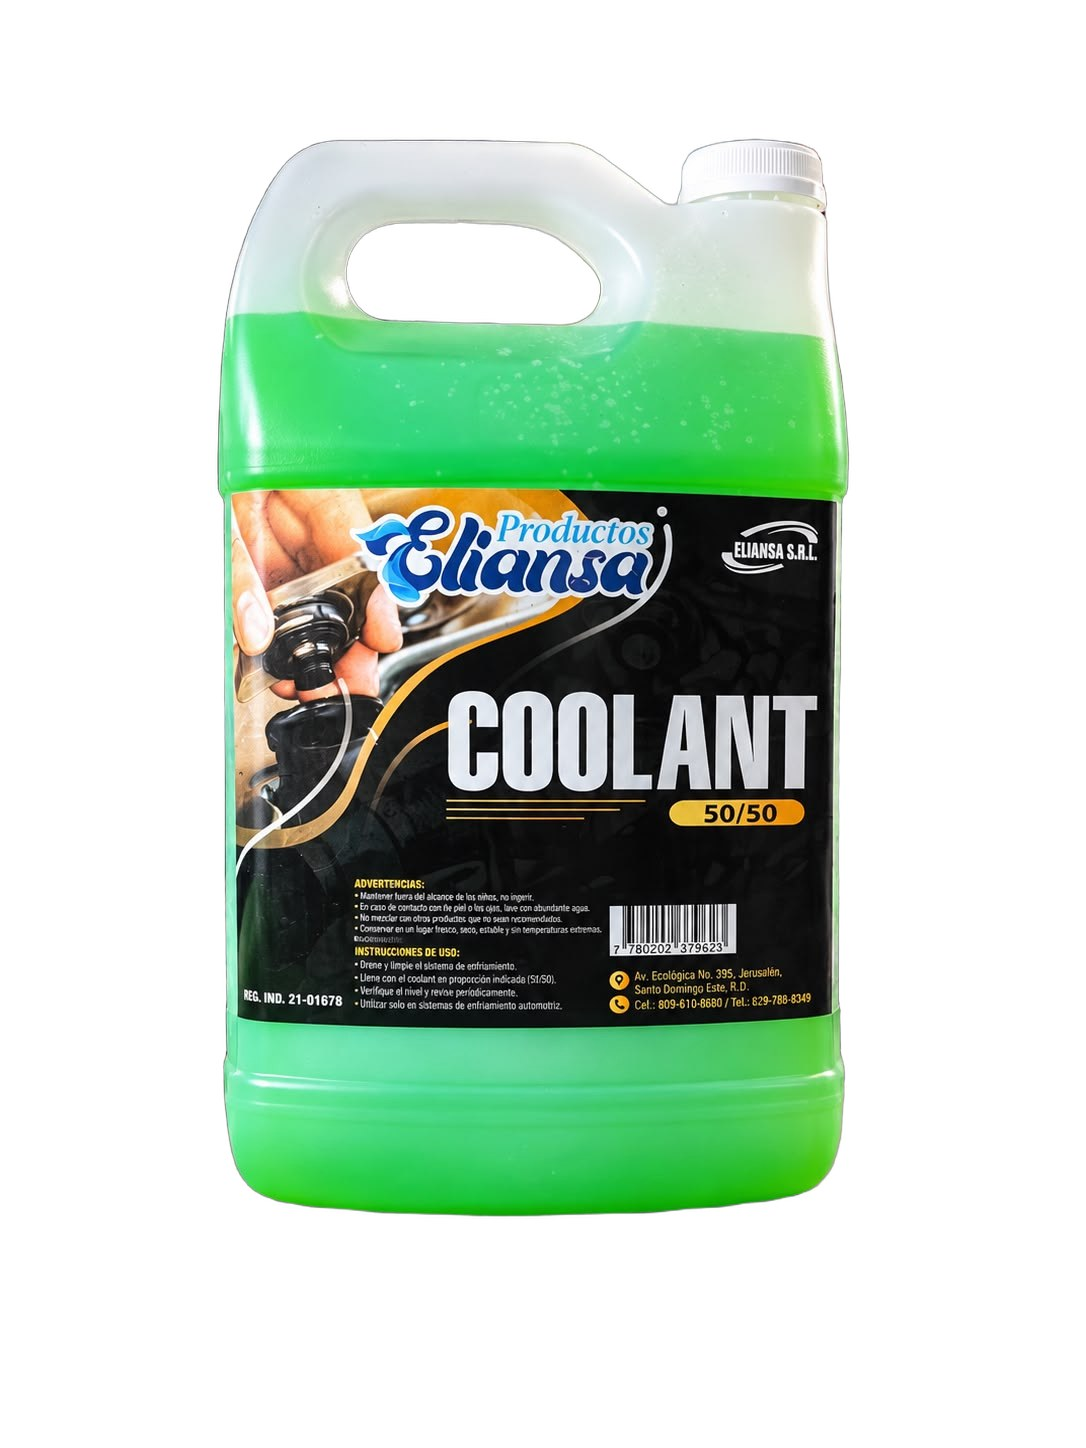
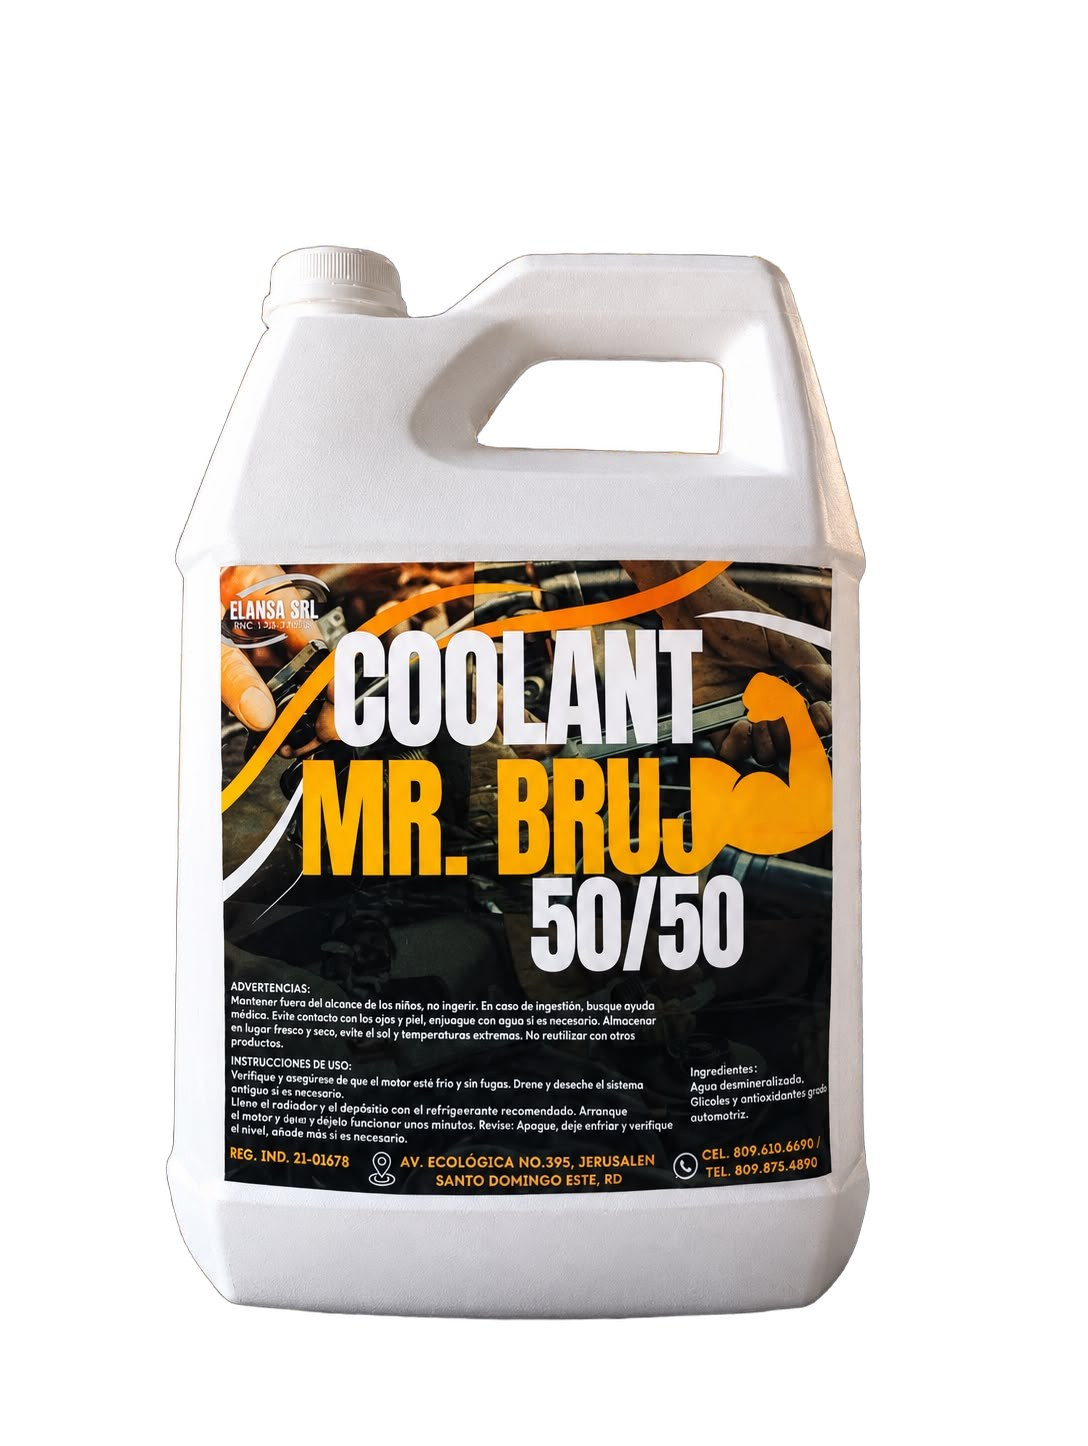
Quita precios por mayor y agrega foto nueva Mr Brujo

diff --git a/app.js b/app.js
@@ -4,26 +4,26 @@ function waNumLink(num,msg){return 'https://wa.me/'+num+'?text='+encodeURICompon
 function waChoose(msg){pendingWa=msg||'Hola Eliansa';document.getElementById('waOpt1').href=waNumLink(WA,pendingWa);document.getElementById('waOpt2').href=waNumLink(WA2,pendingWa);document.getElementById('waModal').classList.add('open');}
 function closeWa(){document.getElementById('waModal').classList.remove('open');}
 const PRODUCTS=[
-{id:1,cat:'hogar',sku:'Hogar 01',img:'img/suavizante.jpg',name:'Suavizante de Ropa',spec:'Galón · Ropa suave',desc:'Ropa suave y con rico aroma. El favorito de la casa.',price:190,mayor:165,tag:'EL FAVORITO',hot:1},
-{id:2,cat:'hogar',sku:'Hogar 02',img:'img/air-freshener.png',name:'Air Freshener Cherry',spec:'Spray · Aroma cherry',desc:'Aroma duradero, elimina olores. Hogar fresco.',price:null,mayor:null,tag:'NUEVO',hot:0},
-{id:3,cat:'hogar',sku:'Hogar 03',img:'img/jabon-cuaba.png',name:'Jabón de Cuaba',spec:'Galón · Limón',desc:'El clásico jabón de cuaba para fregar y lavar.',price:190,mayor:165,tag:'',hot:0},
-{id:4,cat:'cocina',sku:'Cocina 01',img:'img/lavaplatos.png',name:'Jabón Lavaplatos 500ml',spec:'500ml · Limón fresco',desc:'Poder desengrasante. Corta la grasa al instante.',price:null,mayor:null,tag:'MUY PEDIDO',hot:1},
-{id:5,cat:'cocina',sku:'Cocina 02',img:'img/lavaplatos-galon.png',name:'Jabón Lavaplatos Galón',spec:'Galón · Limpieza efectiva',desc:'Presentación grande para la cocina. Rinde más.',price:null,mayor:null,tag:'',hot:0},
-{id:6,cat:'cocina',sku:'Cocina 03',img:'img/desgrasante-spray.jpg',name:'Desgrasante Multiuso',spec:'Spray · Cocina y superficies',desc:'Elimina grasa difícil. Limpieza profunda.',price:165,mayor:135,tag:'NUEVO',hot:0},
-{id:7,cat:'bano',sku:'Baño 01',img:'img/cloro.png',name:'Cloro 1 Litro',spec:'1L · Desinfecta',desc:'Para baños, pisos y ropa blanca. No puede faltar.',price:90,mayor:85,tag:'',hot:0},
-{id:8,cat:'bano',sku:'Baño 02',img:'img/cloro-galon.jpg',name:'Cloro 1 Galón',spec:'1 GL · Limpieza profunda',desc:'Cloro en galón para baños, pisos y ropa blanca.',price:null,mayor:null,tag:'',hot:0},
-{id:20,cat:'bano',sku:'Baño 03',img:'img/legia.png',name:'Legía',spec:'Hipoclorito 5.25%',desc:'Blanquea y desinfecta ropa y superficies.',price:110,mayor:null,tag:'NUEVO',hot:0},
-{id:9,cat:'desinf',sku:'Desinf 01',img:'img/desinfectante-lavanda.png',name:'Desinfectante Lavanda',spec:'Aroma lavanda',desc:'Limpia, desinfecta y deja la casa oliendo rico por horas.',price:190,mayor:165,tag:'EL FAVORITO',hot:1},
-{id:10,cat:'desinf',sku:'Desinf 02',img:'img/desinfectante-floral.png',name:'Desinfectante Floral',spec:'Galón · Bouquet floral',desc:'Fórmula de larga duración con aroma floral.',price:190,mayor:165,tag:'',hot:0},
-{id:11,cat:'pisos',sku:'Pisos 01',img:'img/limpia-ceramicas.png',name:'Limpia Cerámicas',spec:'Galón · Alto rendimiento',desc:'Limpia, desengrasa y da brillo a pisos cerámicos.',price:null,mayor:255,tag:'NUEVO',hot:0},
-{id:12,cat:'auto',sku:'Auto 01',img:'img/shampoo-autos.png',name:'Shampoo para Autos',spec:'Galón · Espuma activa',desc:'Lava y cuida la pintura de tu vehículo.',price:null,mayor:140,tag:'NUEVO',hot:0},
-{id:13,cat:'auto',sku:'Auto 02',img:'img/limpia-parabrisas.png',name:'Limpia Parabrisas',spec:'Visibilidad clara',desc:'Remueve suciedad sin dejar residuos.',price:null,mayor:null,tag:'',hot:0},
-{id:14,cat:'auto',sku:'Auto 03',img:'img/agua-bateria.png',name:'Agua para Batería',spec:'Galón · Mantenimiento',desc:'Para el cuidado de la batería de tu vehículo.',price:null,mayor:null,tag:'',hot:0},
-{id:15,cat:'auto',sku:'Auto 04',img:'img/almorol.png',name:'Almorol Blanco',spec:'Spray · Protector premium',desc:'Acabado brillante con protección UV para gomas e interiores.',price:null,mayor:null,tag:'NUEVO',hot:0},
-{id:16,cat:'auto',sku:'Auto 05',img:'img/coolant-5050.jpg',name:'Coolant Mr. Brujo 50/50',spec:'Galón · Automotriz',desc:'Enfriamiento superior. Evita corrosión y sobrecalentamiento.',price:600,mayor:425,tag:'NUEVO',hot:0},
-{id:17,cat:'auto',sku:'Auto 06',img:'img/coolant-3030.jpg',name:'Coolant 30/30',spec:'Galón · Automotriz',desc:'Refrigerante para el radiador. Protección diaria.',price:400,mayor:350,tag:'NUEVO',hot:0},
-{id:18,cat:'auto',sku:'Auto 07',img:'img/coolant-regular.jpg',name:'Coolant Regular',spec:'Galón · Automotriz',desc:'Refrigerante regular para tu vehículo.',price:200,mayor:90,tag:'',hot:0},
-{id:19,cat:'hogar',sku:'Hogar 04',img:'img/jabon-cuaba-medio.jpg',name:'Jabón de Cuaba ½ Galón',spec:'½ GL · Limón',desc:'El clásico jabón de cuaba en tamaño medio galón.',price:null,mayor:null,tag:'NUEVO',hot:0},
+{id:1,cat:'hogar',sku:'Hogar 01',img:'img/suavizante.jpg',name:'Suavizante de Ropa',spec:'Galón · Ropa suave',desc:'Ropa suave y con rico aroma. El favorito de la casa.',price:190,tag:'EL FAVORITO',hot:1},
+{id:2,cat:'hogar',sku:'Hogar 02',img:'img/air-freshener.png',name:'Air Freshener Cherry',spec:'Spray · Aroma cherry',desc:'Aroma duradero, elimina olores. Hogar fresco.',price:null,tag:'NUEVO',hot:0},
+{id:3,cat:'hogar',sku:'Hogar 03',img:'img/jabon-cuaba.png',name:'Jabón de Cuaba',spec:'Galón · Limón',desc:'El clásico jabón de cuaba para fregar y lavar.',price:190,tag:'',hot:0},
+{id:4,cat:'cocina',sku:'Cocina 01',img:'img/lavaplatos.png',name:'Jabón Lavaplatos 500ml',spec:'500ml · Limón fresco',desc:'Poder desengrasante. Corta la grasa al instante.',price:null,tag:'MUY PEDIDO',hot:1},
+{id:5,cat:'cocina',sku:'Cocina 02',img:'img/lavaplatos-galon.png',name:'Jabón Lavaplatos Galón',spec:'Galón · Limpieza efectiva',desc:'Presentación grande para la cocina. Rinde más.',price:null,tag:'',hot:0},
+{id:6,cat:'cocina',sku:'Cocina 03',img:'img/desgrasante-spray.jpg',name:'Desgrasante Multiuso',spec:'Spray · Cocina y superficies',desc:'Elimina grasa difícil. Limpieza profunda.',price:165,tag:'NUEVO',hot:0},
+{id:7,cat:'bano',sku:'Baño 01',img:'img/cloro.png',name:'Cloro 1 Litro',spec:'1L · Desinfecta',desc:'Para baños, pisos y ropa blanca. No puede faltar.',price:90,tag:'',hot:0},
+{id:8,cat:'bano',sku:'Baño 02',img:'img/cloro-galon.jpg',name:'Cloro 1 Galón',spec:'1 GL · Limpieza profunda',desc:'Cloro en galón para baños, pisos y ropa blanca.',price:null,tag:'',hot:0},
+{id:20,cat:'bano',sku:'Baño 03',img:'img/legia.png',name:'Legía',spec:'Hipoclorito 5.25%',desc:'Blanquea y desinfecta ropa y superficies.',price:110,tag:'NUEVO',hot:0},
+{id:9,cat:'desinf',sku:'Desinf 01',img:'img/desinfectante-lavanda.png',name:'Desinfectante Lavanda',spec:'Aroma lavanda',desc:'Limpia, desinfecta y deja la casa oliendo rico por horas.',price:190,tag:'EL FAVORITO',hot:1},
+{id:10,cat:'desinf',sku:'Desinf 02',img:'img/desinfectante-floral.png',name:'Desinfectante Floral',spec:'Galón · Bouquet floral',desc:'Fórmula de larga duración con aroma floral.',price:190,tag:'',hot:0},
+{id:11,cat:'pisos',sku:'Pisos 01',img:'img/limpia-ceramicas.png',name:'Limpia Cerámicas',spec:'Galón · Alto rendimiento',desc:'Limpia, desengrasa y da brillo a pisos cerámicos.',price:null,tag:'NUEVO',hot:0},
+{id:12,cat:'auto',sku:'Auto 01',img:'img/shampoo-autos.png',name:'Shampoo para Autos',spec:'Galón · Espuma activa',desc:'Lava y cuida la pintura de tu vehículo.',price:null,tag:'NUEVO',hot:0},
+{id:13,cat:'auto',sku:'Auto 02',img:'img/limpia-parabrisas.png',name:'Limpia Parabrisas',spec:'Visibilidad clara',desc:'Remueve suciedad sin dejar residuos.',price:null,tag:'',hot:0},
+{id:14,cat:'auto',sku:'Auto 03',img:'img/agua-bateria.png',name:'Agua para Batería',spec:'Galón · Mantenimiento',desc:'Para el cuidado de la batería de tu vehículo.',price:null,tag:'',hot:0},
+{id:15,cat:'auto',sku:'Auto 04',img:'img/almorol.png',name:'Almorol Blanco',spec:'Spray · Protector premium',desc:'Acabado brillante con protección UV para gomas e interiores.',price:null,tag:'NUEVO',hot:0},
+{id:16,cat:'auto',sku:'Auto 05',img:'img/coolant-5050.jpg',name:'Coolant Mr. Brujo 50/50',spec:'Galón · Automotriz',desc:'Enfriamiento superior. Evita corrosión y sobrecalentamiento.',price:600,tag:'NUEVO',hot:0},
+{id:17,cat:'auto',sku:'Auto 06',img:'img/coolant-3030.jpg',name:'Coolant 30/30',spec:'Galón · Automotriz',desc:'Refrigerante para el radiador. Protección diaria.',price:400,tag:'NUEVO',hot:0},
+{id:18,cat:'auto',sku:'Auto 07',img:'img/coolant-regular.jpg',name:'Coolant Regular',spec:'Galón · Automotriz',desc:'Refrigerante regular para tu vehículo.',price:200,tag:'',hot:0},
+{id:19,cat:'hogar',sku:'Hogar 04',img:'img/jabon-cuaba-medio.jpg',name:'Jabón de Cuaba ½ Galón',spec:'½ GL · Limón',desc:'El clásico jabón de cuaba en tamaño medio galón.',price:null,tag:'NUEVO',hot:0},
 ];
 const CATS={hogar:'Hogar',cocina:'Cocina',bano:'Baños',desinf:'Desinfectantes',pisos:'Pisos',auto:'Automotriz'};
 let cart=[];try{cart=JSON.parse(localStorage.getItem('nc-cart')||'[]');}catch(e){cart=[];}
@@ -47,11 +47,8 @@ function checkout(){if(!cart.length){toast('Agrega productos primero');return;}c
 function filterCat(c){curFilter=c;document.querySelectorAll('#filters .f').forEach(b=>b.classList.toggle('active',b.dataset.f===c));render();if(c!=='todos'){const el=document.getElementById('catalogo');if(el)el.scrollIntoView({behavior:'smooth'});}}
 function onSearch(v){curSearch=v.toLowerCase();render();}
 function onSort(v){curSort=v;render();}
-function mayorLine(p){return p.mayor!=null?`<span class="bulk">Por mayor: ${fmt(p.mayor)} · 6+ uds</span>`:'';}
-function priceBlock(p){if(p.price!=null)return `<div class="price"><strong>${fmt(p.price)}</strong></div>${mayorLine(p)}<div class="card-actions"><button class="btn-primary" onclick="addToCart(${p.id})">Agregar</button><button class="ficha" onclick="openFicha(${p.id})">Ver</button></div>`;
-if(p.mayor!=null)return `<div class="price"><strong>Consultar detalle</strong></div>${mayorLine(p)}<div class="card-actions"><button class="btn-primary" onclick="askPrice(${p.id})">Consultar</button><button class="ficha" onclick="openFicha(${p.id})">Ver</button></div>`;
+function priceBlock(p){if(p.price!=null)return `<div class="price"><strong>${fmt(p.price)}</strong></div><div class="card-actions"><button class="btn-primary" onclick="addToCart(${p.id})">Agregar</button><button class="ficha" onclick="openFicha(${p.id})">Ver</button></div>`;
 return `<div class="price"><strong>Consultar precio</strong></div><div class="card-actions"><button class="btn-primary" onclick="askPrice(${p.id})">Consultar</button><button class="ficha" onclick="openFicha(${p.id})">Ver</button></div>`;}
-function mayorQuote(name){waChoose('Hola Eliansa, quiero comprar al por mayor: '+name+'. Cantidad: ');}
 function render(){const g=document.getElementById('grid');if(!g)return;
 let list=PRODUCTS.filter(p=>(curFilter==='todos'||p.cat===curFilter)&&((p.name+' '+p.sku+' '+(p.desc||'')).toLowerCase().includes(curSearch)));
 if(curSort==='asc')list=[...list].sort((a,b)=>((a.price==null?1e12:a.price))-((b.price==null?1e12:b.price)));if(curSort==='desc')list=[...list].sort((a,b)=>((b.price==null?-1:b.price))-((a.price==null?-1:a.price)));
@@ -60,7 +57,7 @@ g.innerHTML=list.map(p=>`<div class="card"><div class="card-img"><img loading="l
 <div class="card-body"><span class="sku">${p.sku} · ${CATS[p.cat]||''}</span><h3>${p.name}</h3><span class="spec">${p.spec}</span><p class="desc">${p.desc}</p>
 ${priceBlock(p)}</div></div>`).join('');}
 function openFicha(id){const p=PRODUCTS.find(x=>x.id===id);const m=document.getElementById('modal');document.getElementById('modalCard').innerHTML=`<img src="${p.img}" alt="${p.name}" onerror="this.remove()" style="width:100%;height:240px;object-fit:contain;background:#F4F7FA;border-radius:12px;margin-bottom:12px"><span class="sku">${p.sku} · ${CATS[p.cat]||''}</span><h3>${p.name}</h3><p style="color:var(--muted);font-size:.9rem">${p.desc}</p>
-<table><tr><th>Detalle</th><th>Info</th></tr><tr><td><strong>Presentación</strong></td><td>${p.spec}</td></tr><tr><td><strong>Precio detalle</strong></td><td>${p.price!=null?fmt(p.price):'A consultar por WhatsApp'}</td></tr>${p.mayor!=null?`<tr><td><strong>Precio por mayor</strong></td><td>${fmt(p.mayor)} · desde 6 uds</td></tr>`:''}<tr><td><strong>Entrega</strong></td><td>Envíos disponibles</td></tr></table>
+<table><tr><th>Detalle</th><th>Info</th></tr><tr><td><strong>Presentación</strong></td><td>${p.spec}</td></tr><tr><td><strong>Precio</strong></td><td>${p.price!=null?fmt(p.price):'A consultar por WhatsApp'}</td></tr><tr><td><strong>Entrega</strong></td><td>Envíos disponibles</td></tr></table>
 <div style="display:flex;gap:10px;margin-top:12px">${p.price!=null?`<button class="btn-primary" style="flex:1;justify-content:center" onclick="addToCart(${p.id});closeModal()">Agregar al pedido</button>`:`<button class="btn-primary" style="flex:1;justify-content:center" onclick="askPrice(${p.id})">Consultar por WhatsApp</button>`}<button class="ficha" onclick="closeModal()">Cerrar</button></div>`;
 m.classList.add('open');}
 function closeModal(){document.getElementById('modal').classList.remove('open');}

diff --git a/index.html b/index.html
@@ -27,7 +27,6 @@
 <a href="#inicio" class="active">Inicio</a>
 <a href="#catalogo">Productos</a>
 <a href="#combos">Combos</a>
-<a href="#mayorista">Por mayor</a>
 <a href="#opiniones">Opiniones</a>
 <a href="#contacto">Contacto</a>
 </nav>
@@ -144,42 +143,6 @@
 </div>
 </section>
 
-<section id="mayorista" class="wrap section">
-<div class="sec-head"><div><p class="kicker">VENTAS AL POR MAYOR</p><h2>Precios especiales <em>por cantidad.</em></h2></div><p class="sec-sub">Desde 6 unidades iguales o combinadas. Toca Pedir y nos llega tu solicitud por WhatsApp.</p></div>
-<div class="b2b">
-<div class="table-wrap"><table>
-<tr><th>Producto</th><th>Detalle</th><th>Por mayor</th><th></th></tr>
-<tr><td><strong>Jabón Galón</strong></td><td>RD$190</td><td><strong>RD$165</strong></td><td><button class="ficha" onclick="mayorQuote('Jabón Galón')">Pedir</button></td></tr>
-<tr><td><strong>Cloro</strong></td><td>RD$90</td><td><strong>RD$85</strong></td><td><button class="ficha" onclick="mayorQuote('Cloro')">Pedir</button></td></tr>
-<tr><td><strong>Suavizante</strong></td><td>RD$190</td><td><strong>RD$165</strong></td><td><button class="ficha" onclick="mayorQuote('Suavizante')">Pedir</button></td></tr>
-<tr><td><strong>Desinfectante</strong></td><td>RD$190</td><td><strong>RD$165</strong></td><td><button class="ficha" onclick="mayorQuote('Desinfectante')">Pedir</button></td></tr>
-<tr><td><strong>Limpiador cerámica ½ GL</strong></td><td>—</td><td><strong>RD$190</strong></td><td><button class="ficha" onclick="mayorQuote('Limpiador de cerámica medio galón')">Pedir</button></td></tr>
-<tr><td><strong>Limpiador cerámicas GL</strong></td><td>—</td><td><strong>RD$255</strong></td><td><button class="ficha" onclick="mayorQuote('Limpiador de cerámicas galón')">Pedir</button></td></tr>
-<tr><td><strong>Desgrasante GL</strong></td><td>RD$215</td><td><strong>RD$165</strong></td><td><button class="ficha" onclick="mayorQuote('Desgrasante galón')">Pedir</button></td></tr>
-<tr><td><strong>Desgrasante Litro</strong></td><td>RD$165</td><td><strong>RD$115</strong></td><td><button class="ficha" onclick="mayorQuote('Desgrasante litro')">Pedir</button></td></tr>
-<tr><td><strong>Desgrasante spray ½ L</strong></td><td>RD$165</td><td><strong>RD$135</strong></td><td><button class="ficha" onclick="mayorQuote('Desgrasante spray medio litro')">Pedir</button></td></tr>
-<tr><td><strong>Pinol</strong></td><td>RD$165</td><td><strong>RD$115</strong></td><td><button class="ficha" onclick="mayorQuote('Pinol')">Pedir</button></td></tr>
-<tr><td><strong>Coolant Regular</strong></td><td>RD$200</td><td><strong>RD$90</strong></td><td><button class="ficha" onclick="mayorQuote('Coolant Regular')">Pedir</button></td></tr>
-<tr><td><strong>Coolant 30%</strong></td><td>RD$400</td><td><strong>RD$350</strong></td><td><button class="ficha" onclick="mayorQuote('Coolant 30%')">Pedir</button></td></tr>
-<tr><td><strong>Coolant 50/50</strong></td><td>RD$600</td><td><strong>RD$425</strong></td><td><button class="ficha" onclick="mayorQuote('Coolant 50/50')">Pedir</button></td></tr>
-<tr><td><strong>Limpia cristales GL</strong></td><td>RD$140</td><td><strong>RD$115</strong></td><td><button class="ficha" onclick="mayorQuote('Limpia cristales galón')">Pedir</button></td></tr>
-<tr><td><strong>Limpia cristales 32oz</strong></td><td>—</td><td><strong>RD$95</strong></td><td><button class="ficha" onclick="mayorQuote('Limpia cristales 32oz')">Pedir</button></td></tr>
-<tr><td><strong>Shampoo Galón</strong></td><td>—</td><td><strong>RD$140</strong></td><td><button class="ficha" onclick="mayorQuote('Shampoo galón')">Pedir</button></td></tr>
-<tr><td><strong>Shampoo ½ galón</strong></td><td>—</td><td><strong>RD$90</strong></td><td><button class="ficha" onclick="mayorQuote('Shampoo medio galón')">Pedir</button></td></tr>
-</table></div>
-<div class="b2b-form">
-<h3>Pide tu cotización mayorista</h3>
-<p>Dinos qué necesitas y cuántas unidades. Te respondemos al momento.</p>
-<form onsubmit="event.preventDefault();waChoose('Hola Eliansa, quiero comprar al por mayor: '+this.prod.value+' x'+this.qty.value+' uds. Mi nombre es '+(this.nombre.value||''));">
-<label>Producto *</label><input name="prod" required placeholder="Ej. Desinfectante x12">
-<label>Cantidad *</label><input name="qty" required inputmode="numeric" placeholder="Ej. 12">
-<label>Tu nombre</label><input name="nombre" placeholder="Ej. María">
-<button class="btn-accent full" type="submit">Pedir por WhatsApp</button>
-</form>
-</div>
-</div>
-</section>
-
 <section id="opiniones" class="wrap section split">
 <div>
 <p class="kicker">CÓMO PEDIR</p><h2>Sin llamadas eternas ni precios por DM.</h2>
@@ -250,7 +213,7 @@
 <footer>
 <div class="wrap foot">
 <div><div class="brand"><span class="foot-logo"><img src="img/logo.png" alt="Productos Eliansa SRL"></span></div><p>“Tu hogar, nuestro compromiso.”<br>Pedidos por WhatsApp · Envíos disponibles.</p></div>
-<div><strong>Ver</strong><p><a href="#catalogo">Productos</a><br><a href="#combos">Combos</a><br><a href="#mayorista">Por mayor</a><br><a href="#opiniones">Opiniones</a></p></div>
+<div><strong>Ver</strong><p><a href="#catalogo">Productos</a><br><a href="#combos">Combos</a><br><a href="#opiniones">Opiniones</a></p></div>
 <div><strong>Contacto</strong><p>Santo Domingo Este<br>809-610-6690<br>829-778-5347</p></div>
 <div><strong>Horario</strong><p>Lun–Sáb 8am–6pm<br>Envíos disponibles</p></div>
 </div>
